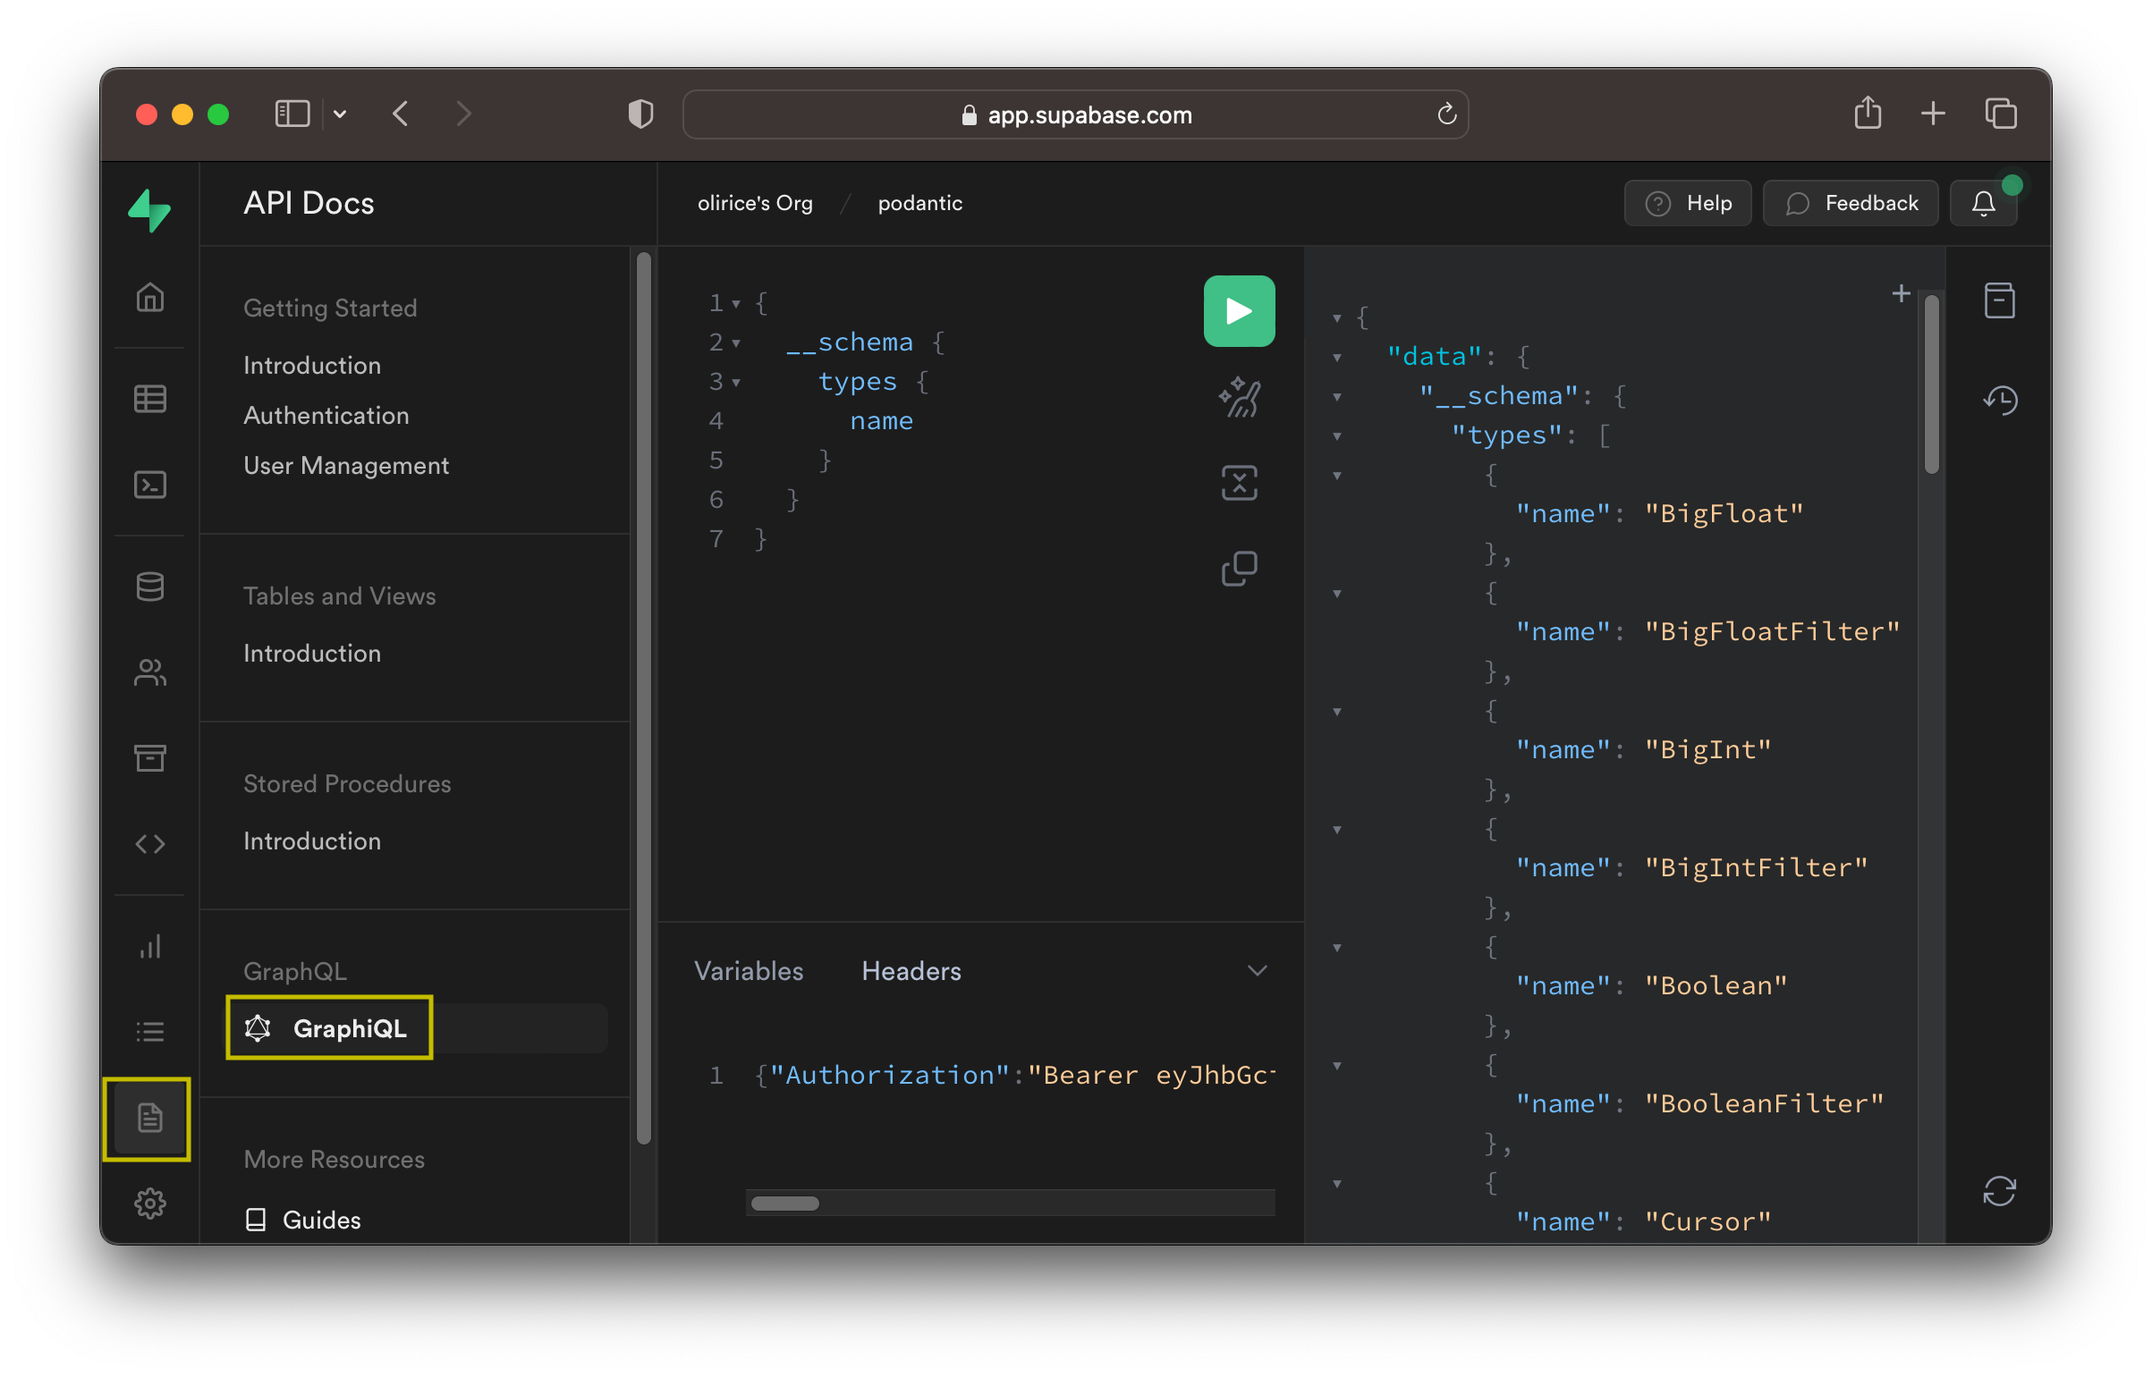
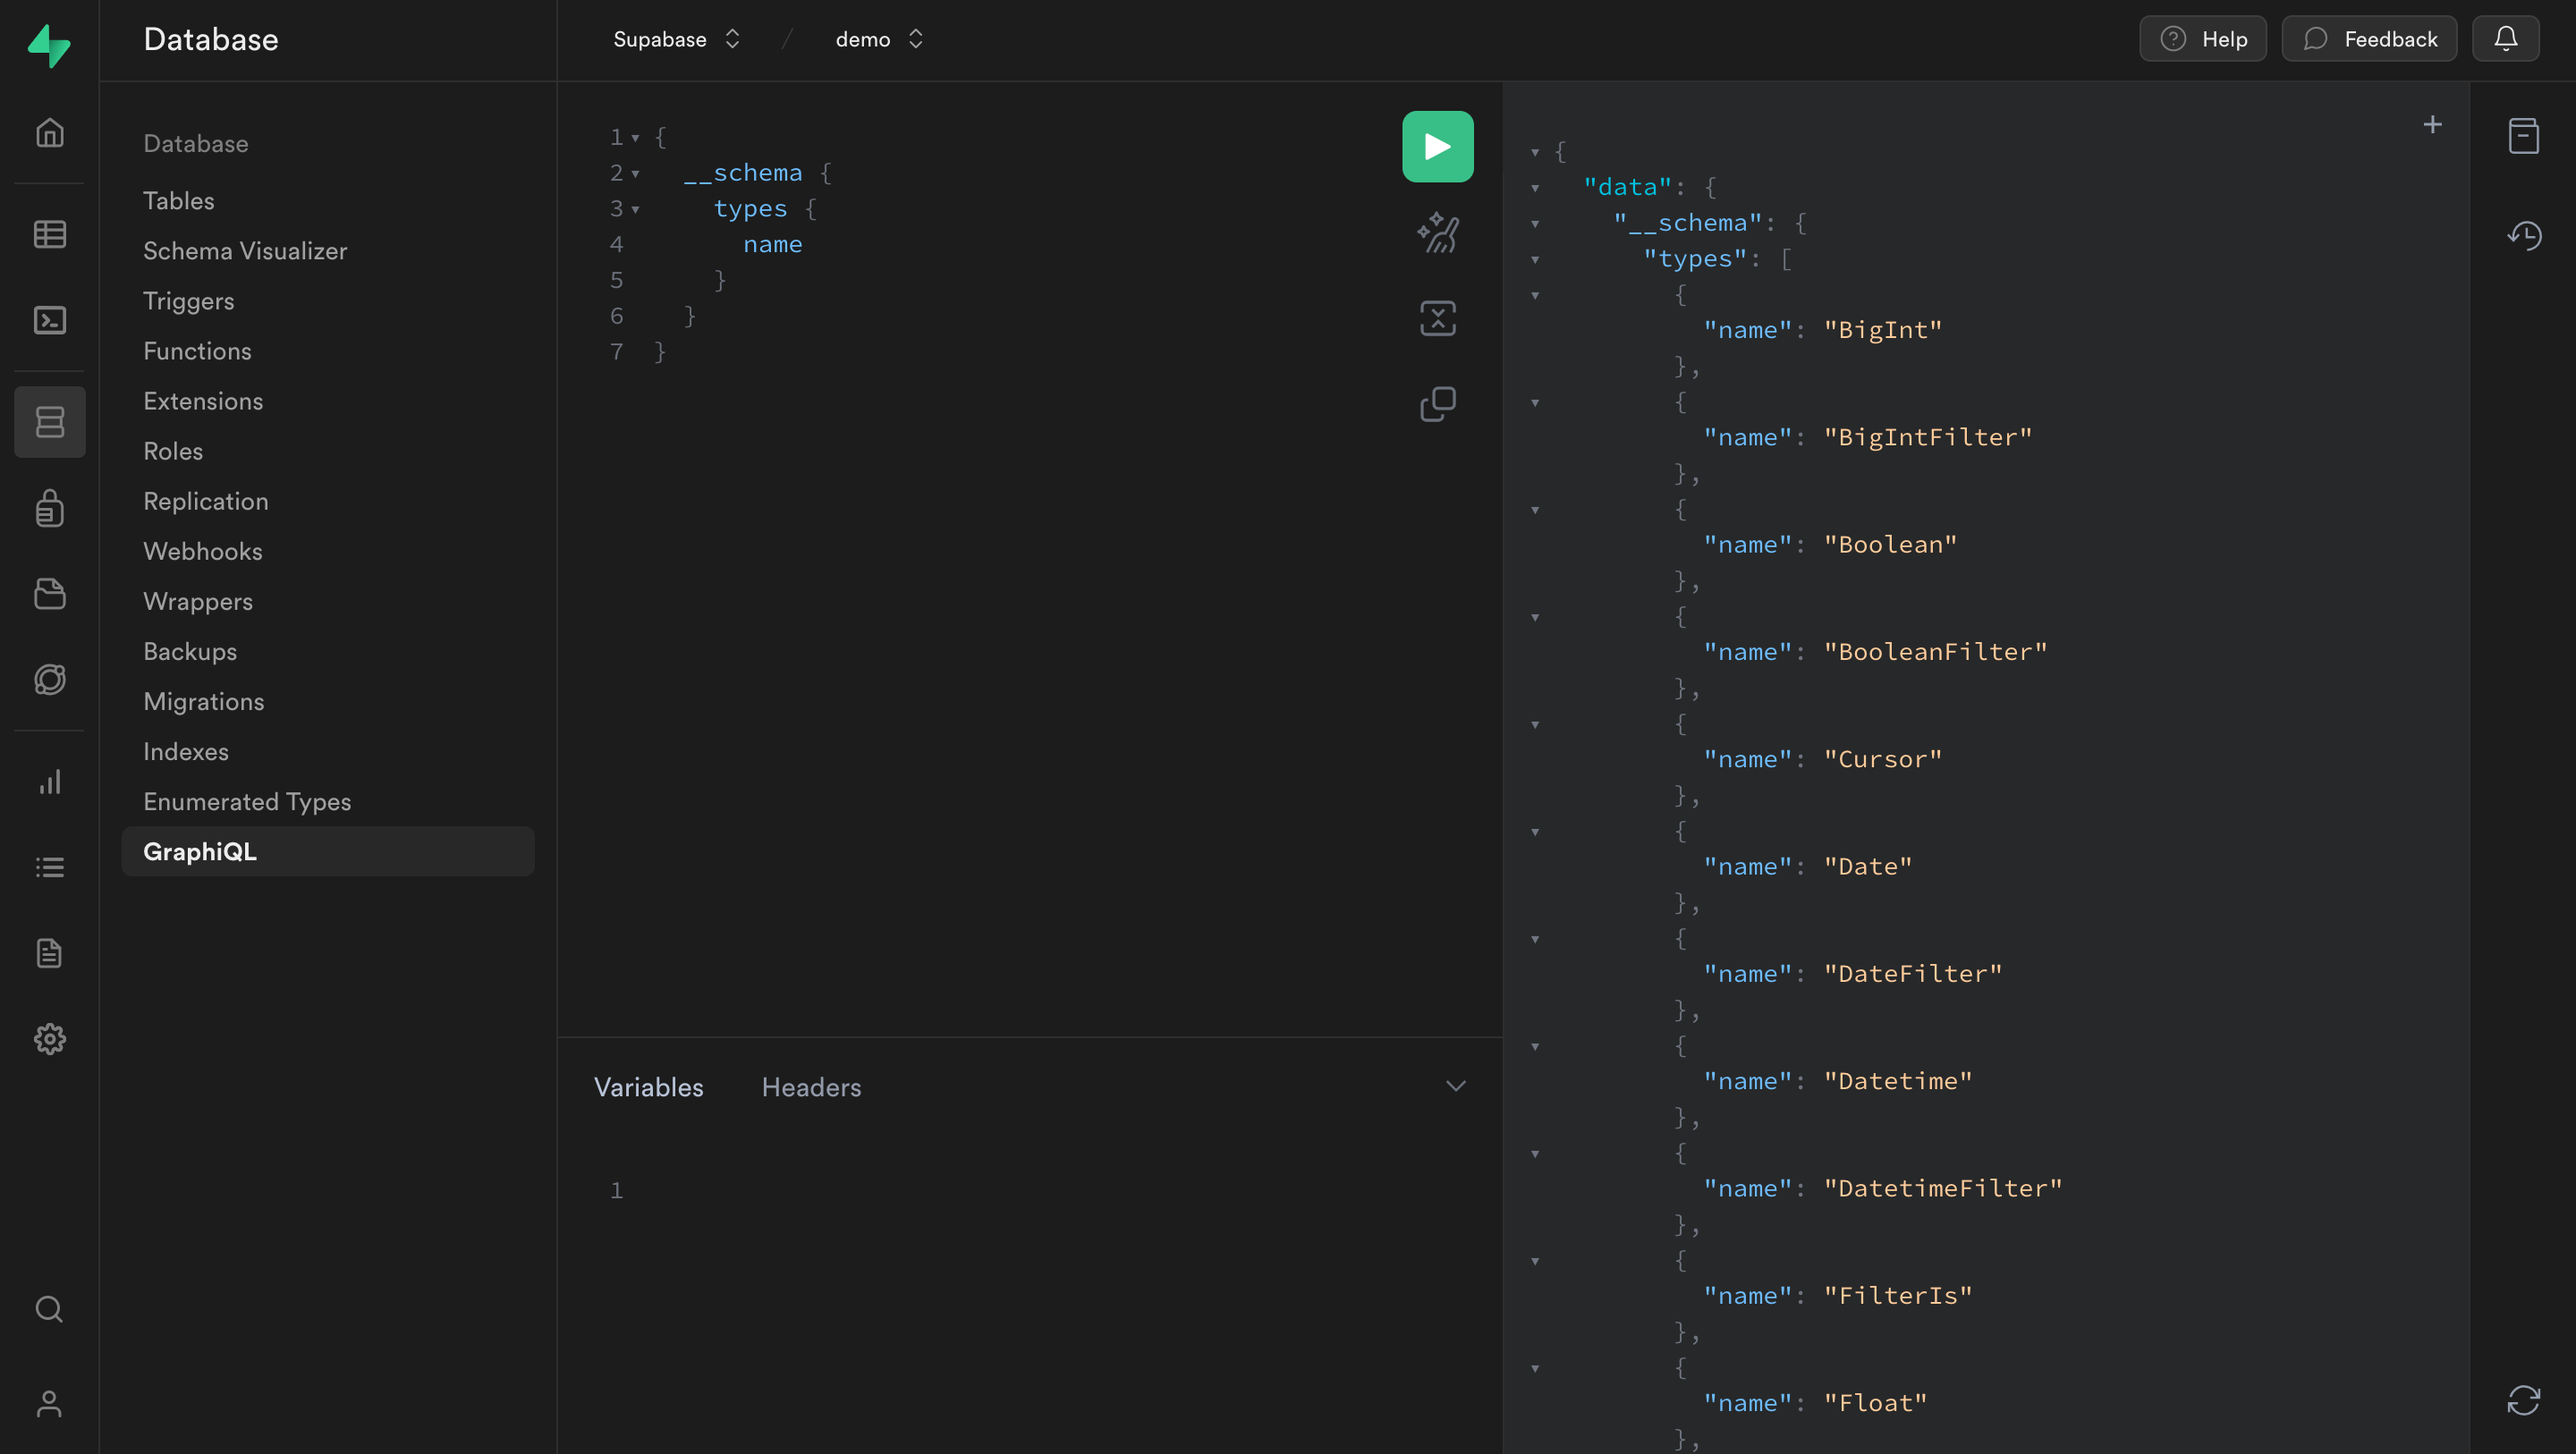
updated GraphiQL doc

diff --git a/docs/supabase.md b/docs/supabase.md
@@ -18,8 +18,8 @@ For more experienced users, or when you're ready to productionize your applicati
 
 ### Supabase Studio
 
-The easiest way to make a GraphQL request with Supabase is to use [Supabase Studio's builtin GraphiQL IDE](https://app.supabase.com/project/_/api/graphiql).
-You can access GraphiQL [here](https://app.supabase.com/project/_/api/graphiql) by selecting the relevant project. Alternatively, navigate there within Studio at `API Docs > GraphQL > GraphiQL`.
+The easiest way to make a GraphQL request with Supabase is to use [Supabase Studio's builtin GraphiQL IDE](https://app.supabase.com/project/_/database/graphiql).
+You can access GraphiQL [here](https://app.supabase.com/project/_/database/graphiql) by selecting the relevant project. Alternatively, navigate there within Studio at `Database > GraphiQL`.
 
 ![graphiql](./assets/supabase_graphiql.png)
 
